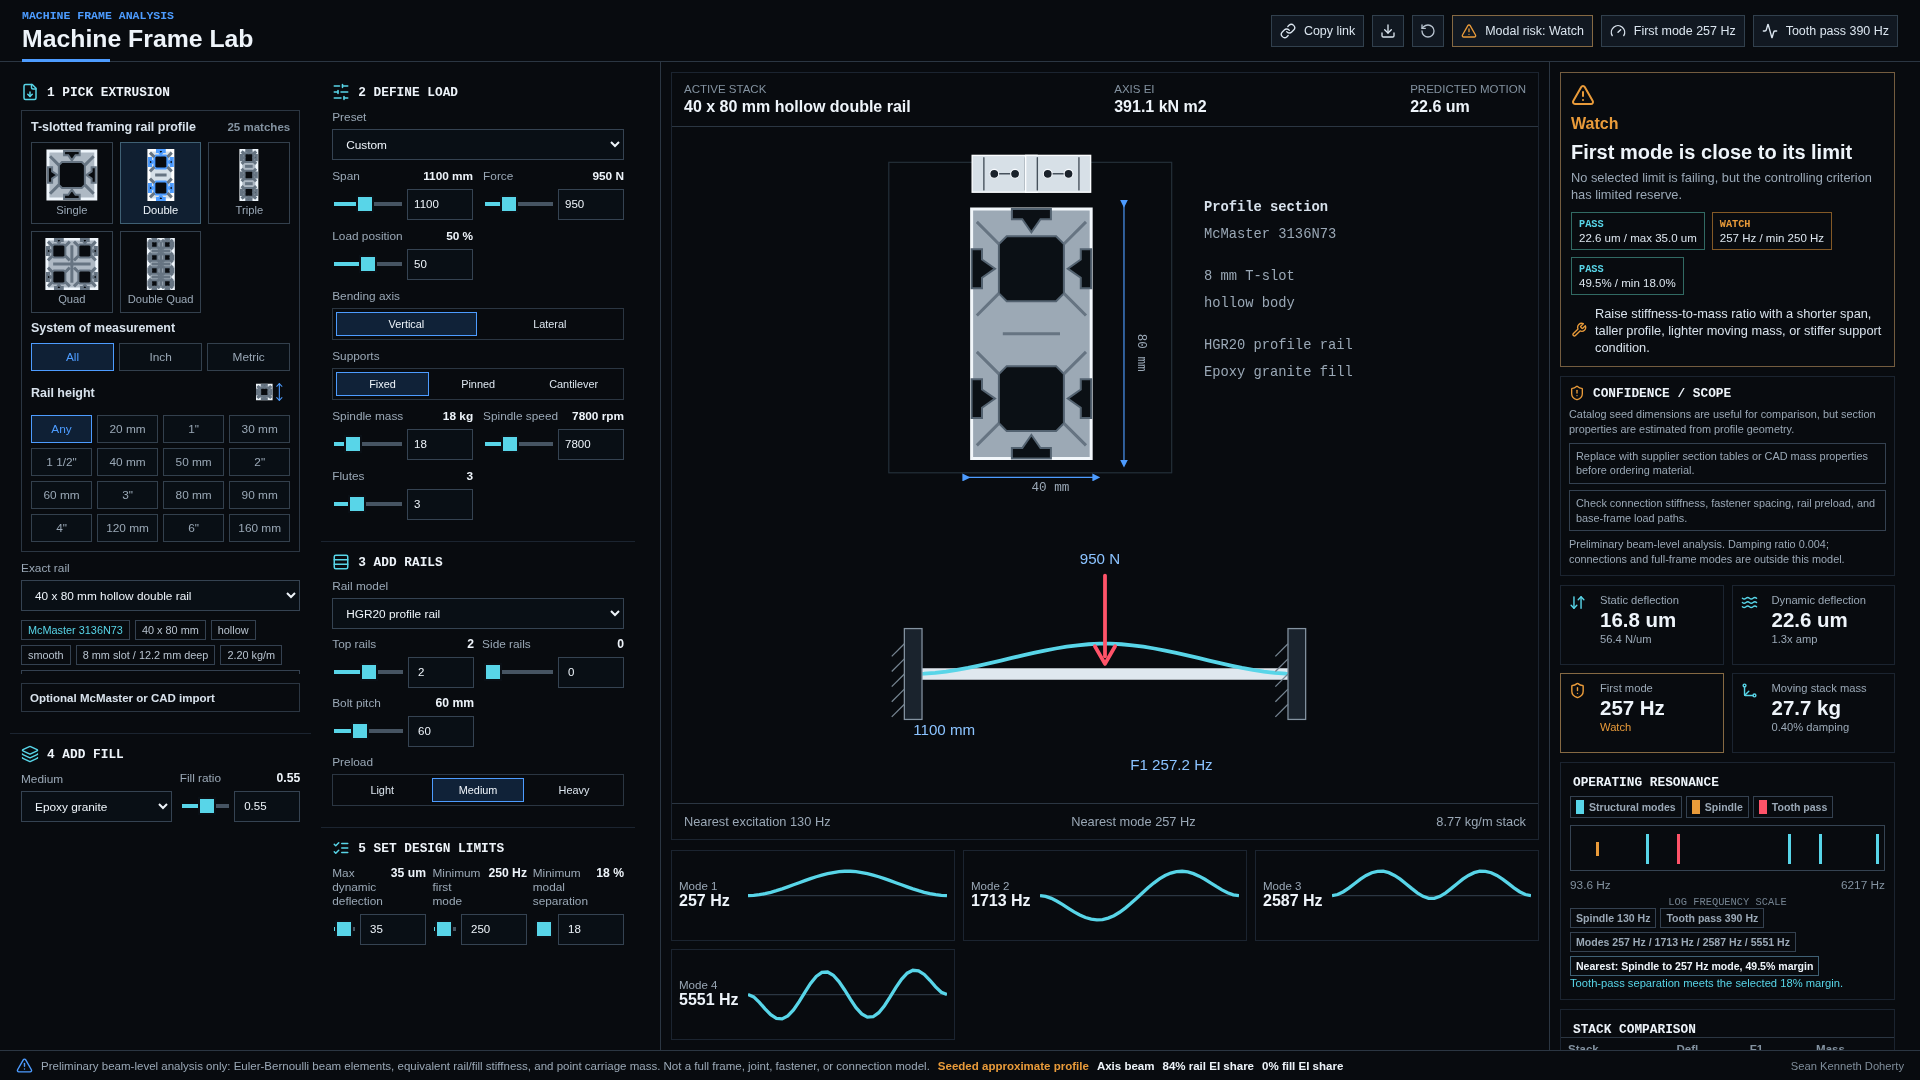
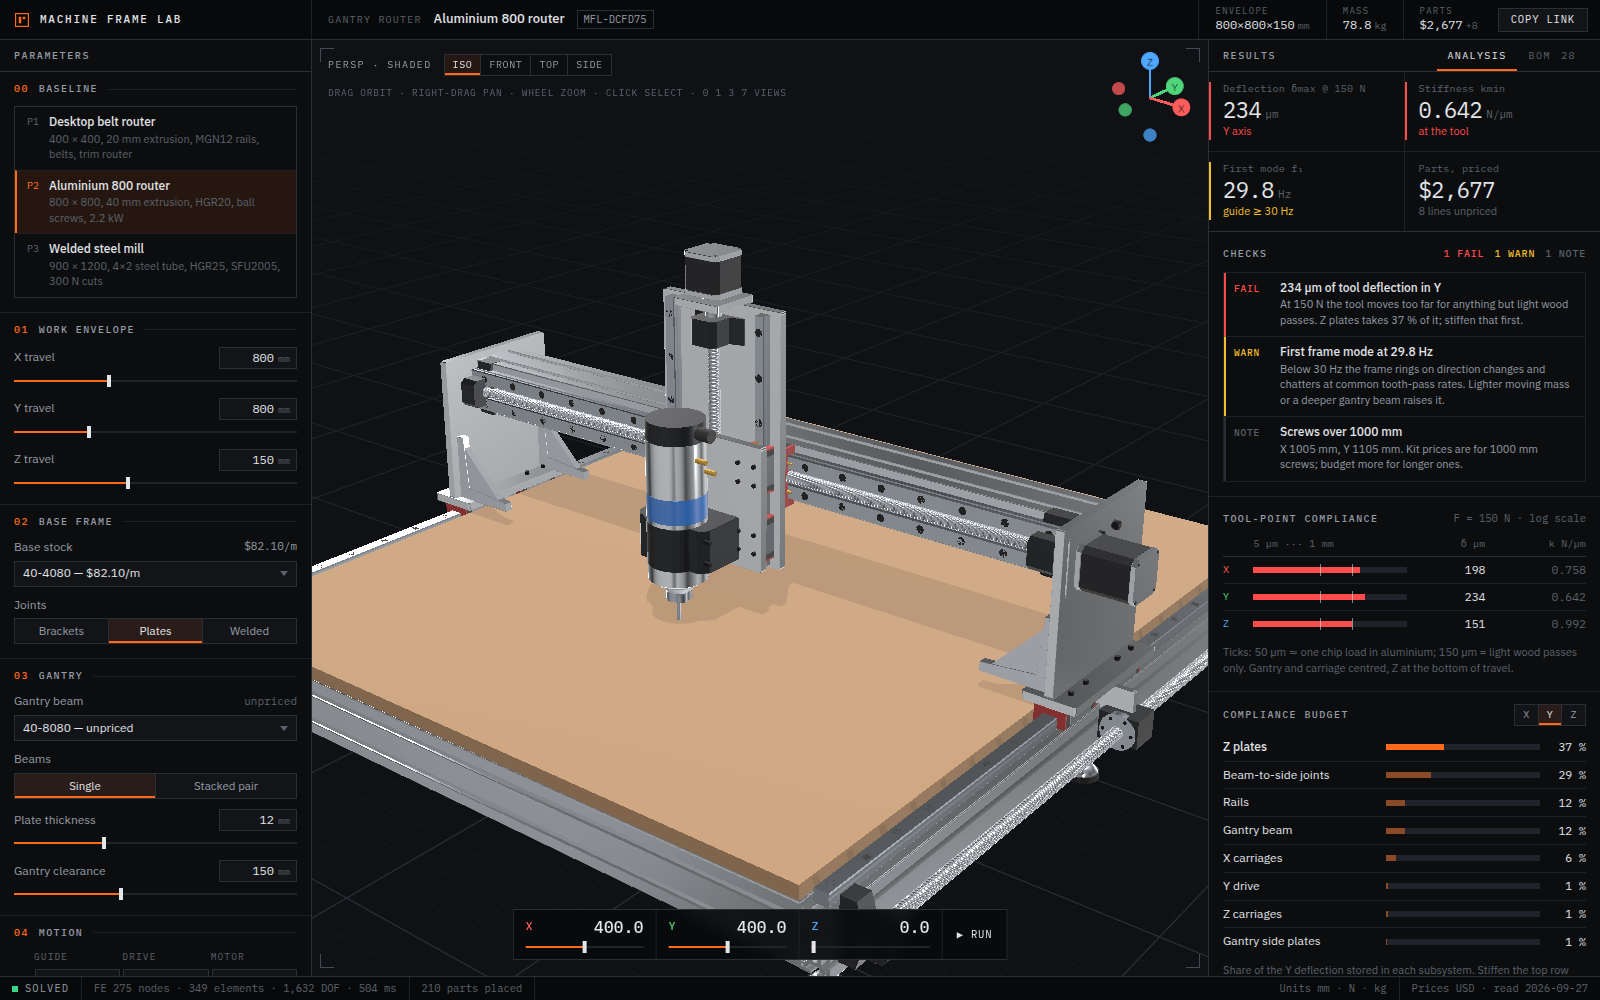
Update Machine Frame Lab to the CNC router designer
Rewrite the card for the current app: new summary, highlights, tags and a
fresh screenshot. Point Source and commit links at seankd3/machine-frame-lab
(the old account URLs 404), and drop the Open App link, which served the old
single-beam version.

Claude-Session: https://claude.ai/code/session_015TpebgsyqvpT7qdgciUyRr

diff --git a/app/src/lib/content/projects.ts b/app/src/lib/content/projects.ts
@@ -180,34 +180,38 @@ export const projects: Project[] = [
     eyebrow: 'Engineering / Simulation',
     status: 'Working tool',
     summary:
-      'A preliminary machine-frame engineering workbench for comparing aluminum extrusion, rail, and fill stacks against explicit design limits. It solves static and modal beam response, checks spindle and tooth-pass resonance, and exports a traceable analysis record.',
+      'Design a DIY CNC router from parts you can actually buy, and see how stiff, fast and expensive it will be before you order anything.',
     image: '/images/projects/machine-frame-lab.png',
-    imageAlt: 'Machine Frame Lab engineering workstation showing extrusion inputs, finite-element mode shapes, design criteria, and resonance analysis.',
-    sourceUrl: 'https://github.com/Sean-Kenneth-Doherty/machine-frame-lab',
-    tags: ['Finite Elements', 'Modal Analysis', 'Machine Design', 'TypeScript', 'React'],
+    imageAlt: 'Machine Frame Lab showing a 3D model of an 800 × 800 mm aluminium CNC router between the design options and the stiffness results, checks and compliance budget.',
+    sourceUrl: 'https://github.com/seankd3/machine-frame-lab',
+    tags: ['Engineering Tools', 'CNC', '3D', 'Simulation'],
     highlights: [
-      'Assembled Euler-Bernoulli stiffness and consistent mass matrices with a point carriage mass and numerically solved mode shapes.',
-      'Focused verification against closed-form simply supported, fixed-fixed, and cantilever beam solutions.',
-      'Editable deflection, first-mode, and modal-separation limits with a controlling-criterion verdict and safer-RPM guidance.',
-      'Twenty-five seeded extrusion profiles, custom section-property intake, shareable configurations, and exportable JSON analysis reports.',
+      'Pick about twenty options: travel, frame stock, rails, ball screws or belts, motors, spindle and controller.',
+      'It builds a full 3D model of the machine from those choices.',
+      'A custom stiffness solver runs a 3D frame stiffness and vibration analysis, and works out each axis’s acceleration and top speed.',
+      'It produces a priced parts list where every price has a source.',
+      'Built with React, three.js and TypeScript.',
     ],
     updates: [
+      {
+        date: '2026-09-27',
+        title: 'Rebuilt as a full CNC router designer',
+        summary:
+          'The single-beam analyser became a whole-machine designer: a 3D model compiled from about twenty choices, a sparse 3D frame stiffness and vibration solver, per-axis acceleration and top speed, design checks, and a sourced, priced parts list.',
+        commits: ['0ed7ebe', 'f9d1c85', '4d5fab4', 'a5abb1b', '038896a'],
+      },
       {
         date: '2026-07-10',
         title: 'Finite-element modal solver and design qualification',
         summary:
           'Replaced analytical modal shortcuts with a generalized finite-element eigenproblem, added explicit acceptance criteria and model-confidence guidance, rebuilt the resonance view around operating decisions, and verified the workflow at desktop and phone widths.',
-        commit: 'b065804',
+        commit: '2f234e7',
       },
     ],
     links: [
       {
-        label: 'Open App',
-        href: '/play/machine-frame-lab/',
-      },
-      {
         label: 'Source',
-        href: 'https://github.com/Sean-Kenneth-Doherty/machine-frame-lab',
+        href: 'https://github.com/seankd3/machine-frame-lab',
       },
     ],
   },
